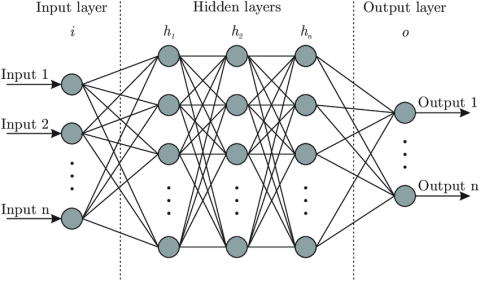
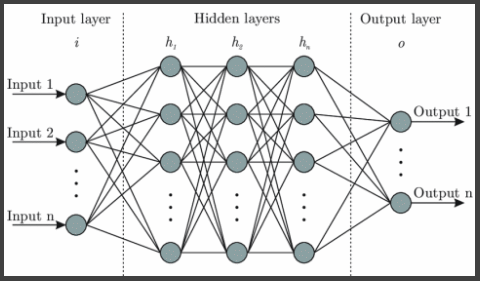
changed some borders for no real reason

diff --git a/index.md b/index.md
@@ -14,7 +14,7 @@ My final year project: Using neural networks to train NPC behaviour.
 Don't crack under the pressure!
 Roll your way to victory in this manic 4 player party game!
 
-<img scr="images/Eggsassination.jpg">
+<img src="images/Eggsassination.png">
 
 ### [Slothit League](/Slothit-League.md)
 
